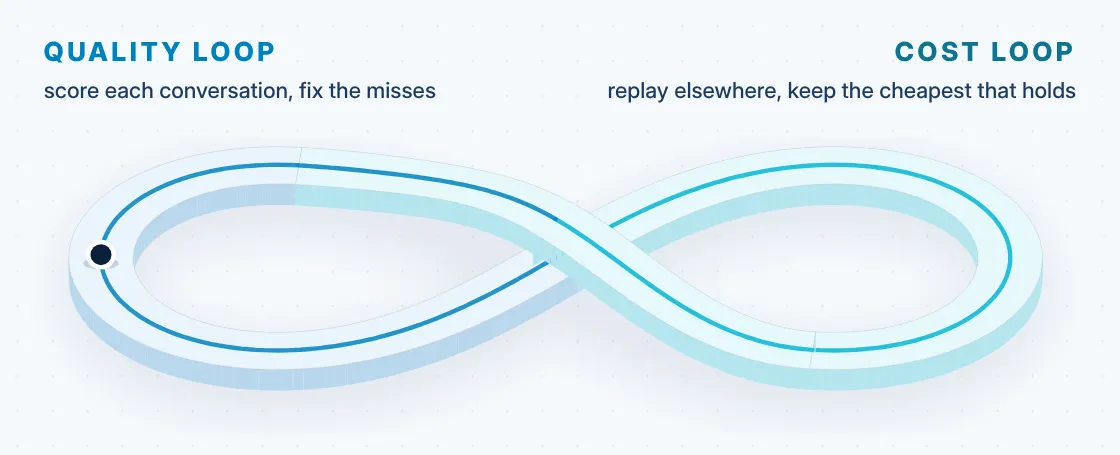
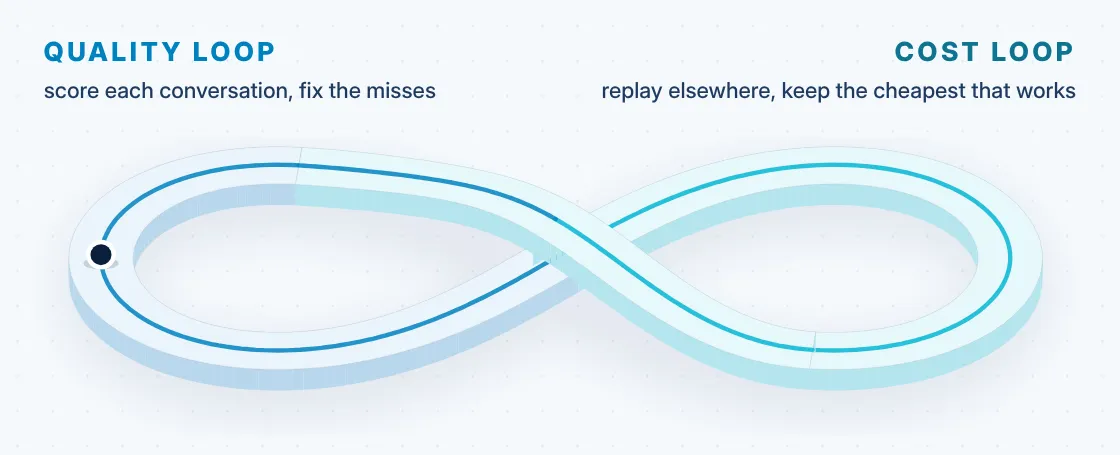
post(software-factory): Software Factory: where the word comes from, and what we do with it (#201)
Publishes the post after a style pass on the English version. The quality post's series block links to it.

Changed region(s): [[0.5312, 0.1846, 0.9688, 0.2154]]

diff --git a/src/posts/SoftwareFactory.ts b/src/posts/SoftwareFactory.ts
@@ -3,14 +3,13 @@ import type { PostMetadata, PostContent } from '@/lib/posts'
 export const metadata: PostMetadata = {
   slug: 'software-factory',
   date: '2026-11-16',
-  tags: ['Software', 'AI', 'Opinion'],
-  draft: true
+  tags: ['Software', 'AI', 'Opinion']
 }
 
 const englishContent: PostContent = {
   title: "Software Factory: Where the Word Comes From, and What We Do With It",
   description: "The term dates back to General Electric and Hitachi, and every revival since has industrialized what surrounds the programmer. The agent-era version goes after the development cycle itself. A field report from a regulated hospital ERP: the history, the line as we drew it, the part that actually runs, and the limits of merging on machine-checked evidence.",
-  html: `<div class="post-tldr"><p><strong>TL;DR</strong> "Software factory" is a word from 1968, and it has let down several generations already. Each factory standardized what surrounds the developer: tools, process, models, the pipeline. None touched the station where code gets written. In 2026 that station falls. The whole development cycle, the <abbr title="Software Development Life Cycle: the path from need to delivery">SDLC</abbr>, becomes one line held by agents. On <abbr title="Fictitious codename: the real project, its products and its vendor are anonymized.">Solstice*</abbr>, the middle of that line already runs: code, tests, review, correction. Since 14 October, nobody approves our merges any more. A machine checks a proof. We are left with three decisions, and one job: the customer's need.</p></div>
+  html: `<div class="post-tldr"><p><strong>TL;DR</strong> "Software factory" is a word from 1968, and it has let down several generations already. Each factory standardized what surrounds the developer: tools, process, models, the pipeline. None touched the station where code gets written. In 2026, agents take it. The whole development cycle, the <abbr title="Software Development Life Cycle: the path from need to delivery">SDLC</abbr>, becomes one line held by agents. On <abbr title="Fictitious codename: the real project, its products and its vendor are anonymized.">Solstice*</abbr>, the middle of that line already runs: code, tests, review, correction. Since 14 October, nobody approves our merges any more. A machine checks a proof. We are left with three decisions, and one job: the customer's need.</p></div>
 <hr>
 <p>People ask me whether the software factory is the new buzzword. No. It is a fifty-eight-year-old word, and it has already failed several times.</p>
 <p>In late October, at <abbr title="BDX I/O: yearly tech conference in Bordeaux, France, held on 29 and 30 October 2026">BDX I/O</abbr>, it was in every conversation about agents. Two weeks later I made it the thread of the year review I gave my team.</p>
@@ -18,8 +17,8 @@ const englishContent: PostContent = {
 
 <h2>Where the word comes from</h2>
 <p>In 1968, <abbr title="Robert W. Bemer: American computer scientist, one of the fathers of ASCII">R. W. Bemer</abbr>, an engineer at General Electric, proposes a "software factory". His idea: reduce the productivity gaps between programmers with standard tools and a database of measurements. The same year, <abbr title="M. Douglas McIlroy: Bell Labs researcher, the mind behind Unix pipes">Doug McIlroy</abbr> argues for mass-produced software components.</p>
-<p>According to the historian <abbr title="Michael Cusumano: MIT professor, author of Japan's Software Factories (1991)">Michael Cusumano</abbr>, Hitachi opens the first site to carry the name in 1969. The large Japanese manufacturers follow. In the United States, System Development Corporation sets up its own in the mid-1970s. It lapses in under three years.</p>
-<p>Cusumano sums it up this way: the factory worked for products that look alike. Far less for anything new.</p>
+<p>According to the historian <abbr title="Michael Cusumano: MIT professor, author of Japan's Software Factories (1991)">Michael Cusumano</abbr>, Hitachi opens the first site to carry the name in 1969. The large Japanese manufacturers follow. In the United States, System Development Corporation sets up its own in the mid-1970s. It folds in under three years.</p>
+<p>Cusumano's takeaway: the factory worked for products that resembled each other, and much less well for anything that had never been built.</p>
 <p>In 2004, Microsoft picks the word up again. Jack Greenfield and Keith Short promise to assemble applications from models and dedicated languages. Then <abbr title="DevOps: bringing development and operations together, tooled by continuous integration and deployment">DevOps</abbr> recycles it once more. In French, "usine logicielle" ends up meaning the integration and deployment toolchain.</p>
 <svg viewBox="0 0 640 276" xmlns="http://www.w3.org/2000/svg" role="img" aria-label="From 1968 to 2026, each generation of software factory standardized something else: tools, process, models, the pipeline. Code was still written by hand until the latest one, where agents hold the stations." class="diagram-svg diagram-wide">
 <text x="32" y="32" fill="currentColor" font-family="ui-sans-serif, system-ui, sans-serif" font-size="14.5" font-weight="600" opacity="0.55" letter-spacing="0.14em">WHAT EACH FACTORY STANDARDIZED</text>
@@ -71,29 +70,29 @@ const englishContent: PostContent = {
 <text x="128" y="385" fill="currentColor" font-family="ui-sans-serif, system-ui, sans-serif" font-size="13" opacity="0.7">agents</text>
 <text x="32" y="420" fill="currentColor" font-family="ui-sans-serif, system-ui, sans-serif" font-size="13" font-style="italic" opacity="0.6">1968, 1969: Cusumano (1989)</text>
 </svg>
-<p>Four factories, one blind spot. They industrialized everything around the programmer. None touched the act of writing.</p>
+<p>Four factories, and the same limit every time.</p>
 <blockquote><p>For close to sixty years, the factory standardized everything except the station where the writing happens.</p></blockquote>
 
 <h2>What the word means now</h2>
-<p>In 2026, that station is the one that goes. A software factory is now a line where the need goes in at one end and the delivery comes out at the other. In between, agents.</p>
+<p>In 2026, that is exactly the station agents hold. A software factory is now a line where the need goes in at one end and the delivery comes out at the other. Every station in between is held by an agent.</p>
 <p>The account that revived the word is the one from <abbr title="StrongDM: US vendor of access-management software">StrongDM</abbr>, in February. Three engineers, one rule: no human writes or reviews the code. Scenarios hidden from the agents judge the outcome. <abbr title="Simon Willison: British developer and writer, co-creator of the Django framework">Simon Willison</abbr>, who visited the team, calls it a glimpse of one possible future. He also doubts you can do without review.</p>
-<p>I keep the mechanism: scenarios the agent cannot see. I leave the figures. Nobody has cross-checked them.</p>
+<p>What I take from it is the mechanism, those scenarios the agent cannot see. I do not take the figures, which nobody has cross-checked.</p>
 <p>Here is the line as I drew it for my team. The steps of the development cycle, in order, on a single conveyor.</p>
 <picture class="iso-scene"><source media="(prefers-reduced-motion: reduce)" srcset="/visuals/software-factory/factory-en-still.webp"><img src="/visuals/software-factory/factory-en.webp" alt="Animated isometric scene of a software line: the human need enters on the left, a lot goes through the spec, code, tests and review stations, is refused, takes the correction lane back, runs the tests and the review again, then is delivered to the customer." width="1120" height="620" loading="lazy" decoding="async" data-gallery-image="true"></picture>
 <p>The lot carries three boxes: S for the specification, C for the code, T for the tests. Each one fills at the station that produces it. The need is not a station. It is the input, and it stays human.</p>
-<p>Look at the blue lane. It matters more than the conveyor. A lot refused at review does not ship "with reservations". It goes back to code, runs the same tests, then gets a new review.</p>
-<blockquote><p>A fix voids the evidence. You replay it. You do not copy it over.</p></blockquote>
-<p>A line like this also has to improve its own stations. Two loops say it all.</p>
-<picture class="iso-scene"><source media="(prefers-reduced-motion: reduce)" srcset="/visuals/software-factory/loops-en-still.webp"><img src="/visuals/software-factory/loops-en.webp" alt="Animated isometric infinity symbol: on the left the quality loop, which scores each conversation and fixes the misses; on the right the cost loop, which replays the work elsewhere and keeps the cheapest that holds. A dot travels both loops endlessly." width="1120" height="455" loading="lazy" decoding="async" data-gallery-image="true"></picture>
-<p>The quality loop scores the agents' work and starts from the misses to fix their instructions. The cost loop replays known tasks on another model and keeps the cheapest one that holds. Neither fixes the software. They fix the agent.</p>
+<p>Look at the blue lane: that is the part that matters. A lot refused at review never ships "with reservations". It goes back to code, runs the same tests, then gets a new review.</p>
+<blockquote><p>After a fix, the evidence is worth nothing. It has to be replayed.</p></blockquote>
+<p>A line like this also has to improve itself. Two loops take care of that.</p>
+<picture class="iso-scene"><source media="(prefers-reduced-motion: reduce)" srcset="/visuals/software-factory/loops-en-still.webp"><img src="/visuals/software-factory/loops-en.webp" alt="Animated isometric infinity symbol: on the left the quality loop, which scores each conversation and fixes the misses; on the right the cost loop, which replays the work elsewhere and keeps the cheapest that does the job. A dot travels both loops endlessly." width="1120" height="455" loading="lazy" decoding="async" data-gallery-image="true"></picture>
+<p>The quality loop scores the agents' work and starts from the misses to fix their instructions. The cost loop replays known tasks on another model and keeps the cheapest one that does the job. Neither fixes the software: they fix the agent.</p>
 <p>In March I wrote that the SDLC was dead. I stand by it. Every one of its steps is on this drawing. What died is the handoff between people, and the wait at each one.</p>
 
 <h2>What we do with it</h2>
 <p>Let me be clear: this drawing is a target. On Solstice*, a hospital <abbr title="Enterprise Resource Planning: the administrative backbone of a hospital group">ERP</abbr>, the middle of the line is what runs. Agents write the code and its tests. The integration pipeline executes them. An agent reviews, in a separate session.</p>
 <p>The two ends do not run yet. Turning meeting transcripts into a specification is a trial. Automatic delivery stops at the development environment.</p>
-<p>The real switch dates from 14 October. That day, the main branch stopped requiring an approval. A required check asks for a review proof in its place. The proof names the commit that was reviewed and one run of the integration pipeline. The machine checks for itself that this run exists, covers this code and ended in success.</p>
-<p>That rule comes from an incident. An approval stated close to 1,800 tests, zero failures, green pipeline. In fact some twenty tests had been skipped and the run had failed. The reviewer noticed on his own, a few minutes later. No machine had seen it.</p>
-<p>Our documentation kept one line of it: a count of green tests says nothing about the files that never ran.</p>
+<p>The real shift dates from 14 October. That day, the main branch stopped requiring an approval. A required check asks for a review proof in its place. The proof names the commit that was reviewed and one run of the integration pipeline. The machine checks for itself that this run exists, covers this code and ended in success.</p>
+<p>That rule comes from an incident. An approval stated close to 1,800 tests, zero failures, green pipeline. In fact some twenty tests had been skipped and the run had failed. The reviewer noticed on his own, a few minutes later. No automated check had caught it.</p>
+<p>We wrote one rule down from it: a count of green tests says nothing about the files that never ran.</p>
 <blockquote><p>An approval is an opinion. A proof can be checked.</p></blockquote>
 <p>Over five weeks, more than 600 pull requests were merged. Three proportions over that set:</p>
 <ul>
@@ -165,29 +164,29 @@ const englishContent: PostContent = {
 <text x="32" y="478" fill="currentColor" font-family="ui-sans-serif, system-ui, sans-serif" font-size="13" opacity="0.75">release: the version, and every</text>
 <text x="32" y="496" fill="currentColor" font-family="ui-sans-serif, system-ui, sans-serif" font-size="13" opacity="0.75">promotion past dev</text>
 </svg>
-<p>No agent takes any of these three decisions. Only the development environment receives code without a human gesture. Every move to a later environment is triggered by hand.</p>
+<p>No agent takes any of these three decisions. Only the development environment receives code with no human involved. To go any further, someone has to start the deployment.</p>
 <p>Arbitrating is not theoretical. At the fourth refused review round, the merge blocks until a developer decides. In early November that case had never come up. In mid-November it came up about ten times in three days. Each time, someone looked and decided: carry on, or change approach.</p>
 
 <h2>Where the proof is still a statement</h2>
-<p>A hostile reader will strike here. They will be right on three counts.</p>
-<p><strong>The reviewer can be the same model.</strong> Same agent, same account, a different session. A fresh context reduces anchoring. It proves no diversity of judgement. The machine checks that the review session differs from the commit sessions. It does not check that the review happened anywhere other than in a form.</p>
-<p><strong>Test counts are still typed in.</strong> The check establishes that the cited run is green on that commit. It does not cross-check how many tests were skipped. So the rule born from the incident would catch only half of the incident.</p>
-<p><strong>The security review is one line.</strong> The risk tier is solid: it is computed from the changed paths, and a pull request cannot lower it. At the high tier, the proof must contain a security review. The reviewing agent writes it.</p>
-<p>One objection remains, and it has a name, comprehension debt: we understand less of the code we ship. True. And I think that is no longer our place. Understanding the code line by line is now the agents' responsibility. There will always be an agent to answer the technical need. Our responsibility is to understand the business need, and the way to solve it. The on-site tests will say whether I am right.</p>
-<p>I also owe my August post a correction. It described one perimeter kept human on purpose, the surface reachable from outside. I wrote that this kind of mistake should cost a conversation. The rule still demands a non-author on that perimeter. Today that non-author can be an agent. The conversation became optional. I own that, and I am watching what it gives.</p>
+<p>This is where a skeptical reader will push back. On three points, they will be right.</p>
+<p><strong>The reviewer can be the same model.</strong> Same agent, same account, a different session. Starting from a clean context limits anchoring, without guaranteeing a different pair of eyes. The machine checks that the review session is not the one that wrote the code. It does not check that the review actually took place.</p>
+<p><strong>Test counts are still typed in.</strong> The check establishes that the cited run is green on that commit. It does not cross-check how many tests were skipped. So our rule would catch only half of the incident that produced it.</p>
+<p><strong>The security review is one line.</strong> The risk tier itself is reliable: it is computed from the changed files, and a pull request cannot lower it. At the high tier, the proof must contain a security review. The reviewing agent writes it.</p>
+<p>One objection remains, and it has a name: comprehension debt. We understand less of the code we ship. True. And I think that is no longer our place. Understanding the code line by line is now the agents' responsibility. There will always be an agent to answer the technical need. Our responsibility is to understand the business need, and the way to solve it. The on-site tests will say whether I am right.</p>
+<p>I also owe my August post a correction. It described one perimeter kept human on purpose, the surface reachable from outside. I wrote that a mistake there should force two people to talk. The rule still demands a non-author on that perimeter. Today that non-author can be an agent. So two people no longer have to talk. I own that, and I am watching how it turns out.</p>
 
 <h2>What still belongs to humans</h2>
 <blockquote><p>What matters is understanding the business need and how to solve it. The rest no longer matters.</p></blockquote>
 <p>Saying what to build, why, and in what order. On the drawing it is the cart on the left. No agent pushes it.</p>
 <p>The three decisions: arbitrate, override, release.</p>
-<p>Understanding the system, not every line. What the software must guarantee, and how we prove it. The detail of the code is the agents' business.</p>
-<p>Proving it on site. The first tests in a hospital are under way. I have no number to give yet. They will tell what a merge without a human reviewer is worth.</p>
-<p>And the new. That is where the 1969 factories stalled, by Cusumano's account. Nothing tells me the 2026 one will do better when the need itself is vague.</p>
-<p>Two questions stay open. Should every customer ship on one release train, with features switched on by flags? And is the pull request still the right object, when agents open them faster than a queue drains?</p>
+<p>Understanding the system as a whole: what the software must guarantee, and how we prove it. The detail of the code is the agents' business.</p>
+<p>Putting the software to the test on site. The first tests in a hospital are under way. I have no number to give yet. They will tell what a merge without a human reviewer is worth.</p>
+<p>And what has never been built. That is where the 1969 factories failed, by Cusumano's account. Nothing tells me the 2026 one will do better when the need itself is vague.</p>
+<p>Two questions stay open. Should every customer ship on one release train, with features switched on by flags? And is the pull request still the right object, when agents open them faster than anyone can process them?</p>
 
 <h2>What to do Monday morning</h2>
 <ol>
-<li><strong>Draw your line, station by station.</strong> Mark what runs and what is a target. The honest drawing is often shorter than the pitch.</li>
+<li><strong>Draw your line, station by station.</strong> Mark what runs and what is a target. An honest drawing is usually more modest than the pitch.</li>
 <li><strong>Replace the approval with a proof.</strong> It names a commit and a run, and a machine checks both.</li>
 <li><strong>Write down what stays declarative.</strong> Our documentation does, in plain words. It is the part I reread most.</li>
 <li><strong>Bound the correction loop.</strong> A number of rounds, then a person. On my team, the limit gets used.</li>
@@ -198,10 +197,10 @@ const englishContent: PostContent = {
 <h2>Sources</h2>
 <ul>
 <li>Michael A. Cusumano, "The Software Factory: A Historical Interpretation", <em>IEEE Software</em>, March 1989, and <a target="_blank" rel="noopener noreferrer" href="https://dspace.mit.edu/handle/1721.1/47992">"Factory Concepts and Practices in Software Development: An Historical Overview"</a> (MIT): Bemer in 1968, Hitachi in 1969, the System Development Corporation factory and its end. A historian's work, from archives and interviews. It is the source for the whole first part.</li>
-<li>Jack Greenfield and Keith Short, <em>Software Factories: Assembling Applications with Patterns, Models, Frameworks, and Tools</em> (Wiley, 2004): the Microsoft version of the word. A tool vendor's book: read it as a promise, not as a track record.</li>
+<li>Jack Greenfield and Keith Short, <em>Software Factories: Assembling Applications with Patterns, Models, Frameworks, and Tools</em> (Wiley, 2004): the Microsoft version of the word. A tool vendor's book, to be read as a promise.</li>
 <li><a target="_blank" rel="noopener noreferrer" href="https://simonwillison.net/2026/Feb/7/software-factory/">Simon Willison, "Software Factory" (7 February 2026)</a>: write-up of a visit to StrongDM. Keep the scenarios hidden from the agents. Discard the amounts the company reports, never cross-checked. Greenfield, three people, no outcome published since.</li>
-<li><a target="_blank" rel="noopener noreferrer" href="https://www.warp.dev/articles/self-improvement-loop-software-factory">Warp, on the improvement loop of a software factory (2026)</a>: the idea of two loops comes from there. It is a vendor selling the matching tooling. I take the thinking scheme and none of its numbers.</li>
-<li><a target="_blank" rel="noopener noreferrer" href="https://addyosmani.com/blog/comprehension-debt/">Addy Osmani, "Comprehension Debt" (2026)</a>: the name of the objection I answer. A practitioner's essay, not a measurement.</li>
+<li><a target="_blank" rel="noopener noreferrer" href="https://www.warp.dev/articles/self-improvement-loop-software-factory">Warp, on the improvement loop of a software factory (2026)</a>: the idea of two loops comes from there. It is a vendor selling the matching tooling. I take the idea, not the numbers.</li>
+<li><a target="_blank" rel="noopener noreferrer" href="https://addyosmani.com/blog/comprehension-debt/">Addy Osmani, "Comprehension Debt" (2026)</a>: the name of the objection I answer. A practitioner's essay, with no measurement behind it.</li>
 <li>Solstice*: the proof rule, the orders of magnitude on pull requests, the fourth-round blocks and the three decisions come from the repository, as read on 16 November 2026. Figures are rounded on purpose. Internal, no links: the codename is fictitious and the real project, its products and its vendor are anonymized.</li>
 </ul>`
 }

diff --git a/src/posts/QualityIsExecuted.ts b/src/posts/QualityIsExecuted.ts
@@ -120,7 +120,7 @@ const englishContent: PostContent = {
 <li><strong>Prefer the obligations that cross files</strong>, and derive every perimeter from the code. Anything you maintain by hand drifts, and it drifts quietly.</li>
 <li><strong>Count your derogations against a baseline that can only go down.</strong> I have one of those. I should have 40.</li>
 </ol>
-<p><strong>Read the rest of the series:</strong> <a target="_blank" rel="noopener noreferrer" href="/posts/doctrine-as-code">Doctrine Compounds. Models Don't.</a> — why the rules outlive the models that read them. <a target="_blank" rel="noopener noreferrer" href="/posts/po-is-dead-judgment-is-not">The Backlog Was Never the Job</a> — who signs when the rule and the judgement disagree. <a target="_blank" rel="noopener noreferrer" href="/posts/ai-agents-h1-2026-verdict">100% Agent-Written</a> — the verification tax, counted. <a target="_blank" rel="noopener noreferrer" href="/posts/agentic-ai-addiction">One More Prompt</a> — why my own sense of speed is not evidence. <a target="_blank" rel="noopener noreferrer" href="/posts/the-lan-is-dead">The LAN Is Dead</a> — the checkbox nobody read. <a target="_blank" rel="noopener noreferrer" href="/posts/skills-not-seats">The Skill Was Real. The Seat Wasn't.</a> — testing is not the only skill that stopped needing its own seat.</p>
+<p><strong>Read the rest of the series:</strong> <a target="_blank" rel="noopener noreferrer" href="/posts/doctrine-as-code">Doctrine Compounds. Models Don't.</a> — why the rules outlive the models that read them. <a target="_blank" rel="noopener noreferrer" href="/posts/po-is-dead-judgment-is-not">The Backlog Was Never the Job</a> — who signs when the rule and the judgement disagree. <a target="_blank" rel="noopener noreferrer" href="/posts/ai-agents-h1-2026-verdict">100% Agent-Written</a> — the verification tax, counted. <a target="_blank" rel="noopener noreferrer" href="/posts/agentic-ai-addiction">One More Prompt</a> — why my own sense of speed is not evidence. <a target="_blank" rel="noopener noreferrer" href="/posts/the-lan-is-dead">The LAN Is Dead</a> — the checkbox nobody read. <a target="_blank" rel="noopener noreferrer" href="/posts/skills-not-seats">The Skill Was Real. The Seat Wasn't.</a> — testing is not the only skill that stopped needing its own seat. <a target="_blank" rel="noopener noreferrer" href="/posts/software-factory">Software Factory: Where the Word Comes From, and What We Do With It</a> — the whole line, and what stays human on it.</p>
 <hr>
 <h2>Sources</h2>
 <ul>
@@ -247,7 +247,7 @@ const frenchContent: PostContent = {
 <li><strong>Préférez les obligations qui traversent les fichiers</strong>, et dérivez chaque périmètre du code. Tout ce qu'on tient à la main dérive, et ça dérive sans bruit.</li>
 <li><strong>Comptez vos dérogations contre une référence qui ne peut que décroître.</strong> Un seul de mes contrôles le fait. Il devrait y en avoir 40.</li>
 </ol>
-<p><strong>Lire la suite de la série :</strong> <a target="_blank" rel="noopener noreferrer" href="/posts/doctrine-as-code">La doctrine capitalise. Pas les modèles.</a> — pourquoi les règles survivent aux modèles qui les lisent. <a target="_blank" rel="noopener noreferrer" href="/posts/po-is-dead-judgment-is-not">Le backlog n'a jamais été le métier</a> — qui signe quand la règle et le jugement divergent. <a target="_blank" rel="noopener noreferrer" href="/posts/ai-agents-h1-2026-verdict">100 % écrit par des agents</a> — la taxe de vérification, comptée. <a target="_blank" rel="noopener noreferrer" href="/posts/agentic-ai-addiction">Encore un prompt</a> — pourquoi mon propre ressenti de vitesse n'est pas une preuve. <a target="_blank" rel="noopener noreferrer" href="/posts/the-lan-is-dead">Le LAN est mort</a> — la case que personne n'a lue. <a target="_blank" rel="noopener noreferrer" href="/posts/skills-not-seats">La compétence était réelle. Le poste, non.</a> — le test n'est pas la seule compétence à avoir cessé d'avoir besoin de son propre poste.</p>
+<p><strong>Lire la suite de la série :</strong> <a target="_blank" rel="noopener noreferrer" href="/posts/doctrine-as-code">La doctrine capitalise. Pas les modèles.</a> — pourquoi les règles survivent aux modèles qui les lisent. <a target="_blank" rel="noopener noreferrer" href="/posts/po-is-dead-judgment-is-not">Le backlog n'a jamais été le métier</a> — qui signe quand la règle et le jugement divergent. <a target="_blank" rel="noopener noreferrer" href="/posts/ai-agents-h1-2026-verdict">100 % écrit par des agents</a> — la taxe de vérification, comptée. <a target="_blank" rel="noopener noreferrer" href="/posts/agentic-ai-addiction">Encore un prompt</a> — pourquoi mon propre ressenti de vitesse n'est pas une preuve. <a target="_blank" rel="noopener noreferrer" href="/posts/the-lan-is-dead">Le LAN est mort</a> — la case que personne n'a lue. <a target="_blank" rel="noopener noreferrer" href="/posts/skills-not-seats">La compétence était réelle. Le poste, non.</a> — le test n'est pas la seule compétence à avoir cessé d'avoir besoin de son propre poste. <a target="_blank" rel="noopener noreferrer" href="/posts/software-factory">Software factory : d'où vient le mot, et ce que nous en faisons</a> — la chaîne entière, et ce qui y reste humain.</p>
 <hr>
 <h2>Sources</h2>
 <ul>

diff --git a/SOFTWARE-FACTORY-MEETING-2026-11-16.md b/SOFTWARE-FACTORY-MEETING-2026-11-16.md
@@ -1,6 +1,6 @@
 # Software factory article — meeting, 2026-11-16
 
-Post: `src/posts/SoftwareFactory.ts`, slug `software-factory`, shipped as `draft: true`.
+Post: `src/posts/SoftwareFactory.ts`, slug `software-factory`, first shipped as `draft: true`, published on 2026-11-16 at the author's request.
 
 Material: the author's internal year review given on 12 November after BDX I/O (29-30 October), its speaker notes, and the Solstice* repository rules on review proof. All internal, anonymised.
 
@@ -58,7 +58,6 @@ After reading the first draft, the author overruled the first three:
 
 ## Follow-ups for the author
 
-- Read both languages on `/drafts`, then delete `draft: true` to publish.
 - Confirm the external links; page fetches were blocked in the session. The Cusumano dates were confirmed by search.
 - On a phone the scene labels are small; tapping the image opens it in the gallery.
 - Decide whether to add this post to the series blocks of earlier posts once it is published.
